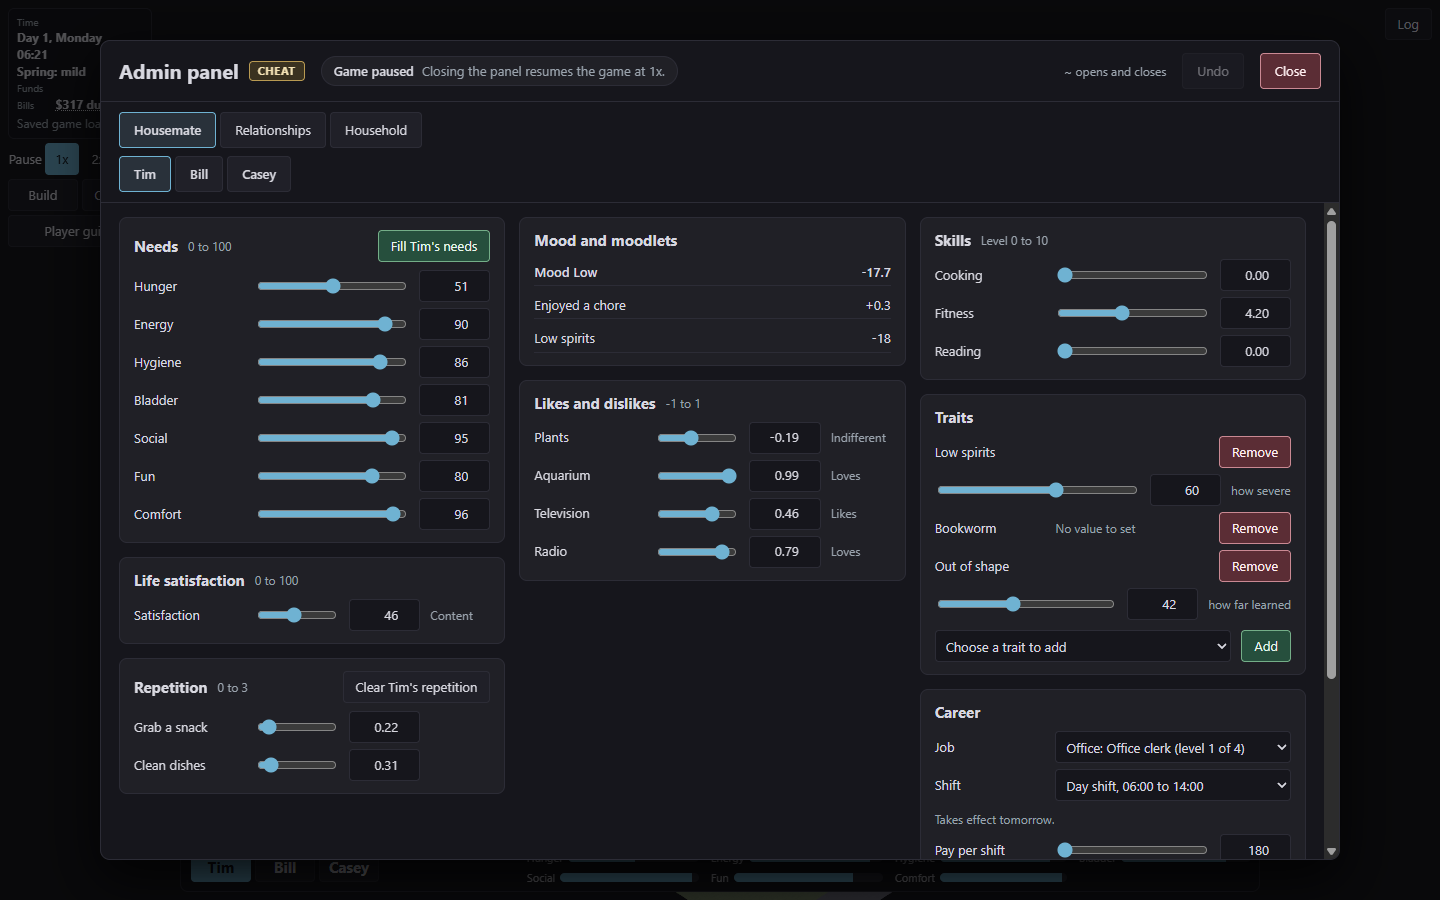
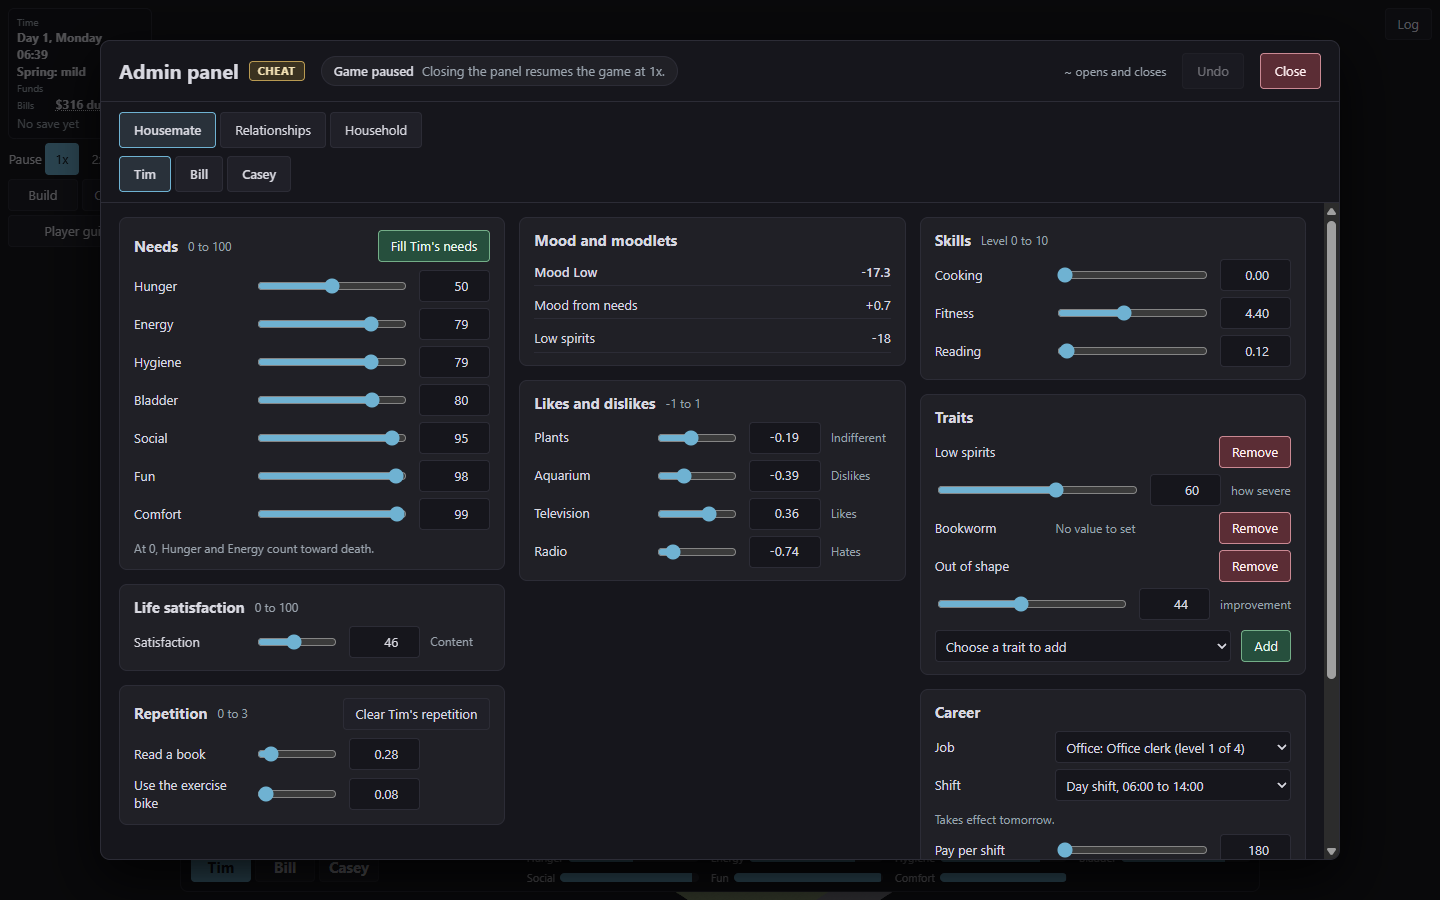
Recapture the admin Housemate pictures for Mood from needs
Save schema 27 replaced the separate need moodlets with one Mood from
needs balance. The guide's Housemate pictures, the night moodlets still,
the edited still and the three Undo stills are captured again from
1492c853a, with new image hashes, the crop record and a source snapshot.

diff --git a/docs/assets/review-evidence/admin-panel/findings.md b/docs/assets/review-evidence/admin-panel/findings.md
@@ -65,3 +65,7 @@ Played at 1440x900 and 390x844 in a muted browser on the dev server, from commit
 | Capability hint | "how far learned" is now "improvement" (owner wording). | `ui-admin-housemate-desktop.png` in the guide folder |
 
 The guide pictures `ui-admin-household-desktop.png`, `ui-admin-household-mobile.png`, `ui-admin-housemate-desktop.png` and `ui-admin-housemate-mobile.png` were recaptured with their desktop crops, hashes and a new source snapshot.
+
+## Recapture after save schema 27, 2026-11-21
+
+Needs now build up one Mood from needs balance instead of separate need moodlets, so the stills that showed the old need rows were recaptured from commit 1492c853a: `desktop-night-housemate-moodlets.png`, `desktop-night-housemate-edited.png`, the three `desktop-night-undo-*.png` stills and the guide's Housemate pictures. `layout-check.js` returned no findings on any of them; the other Housemate stills show only rows that still exist, without the new Mood from needs row, and were left as they are.
